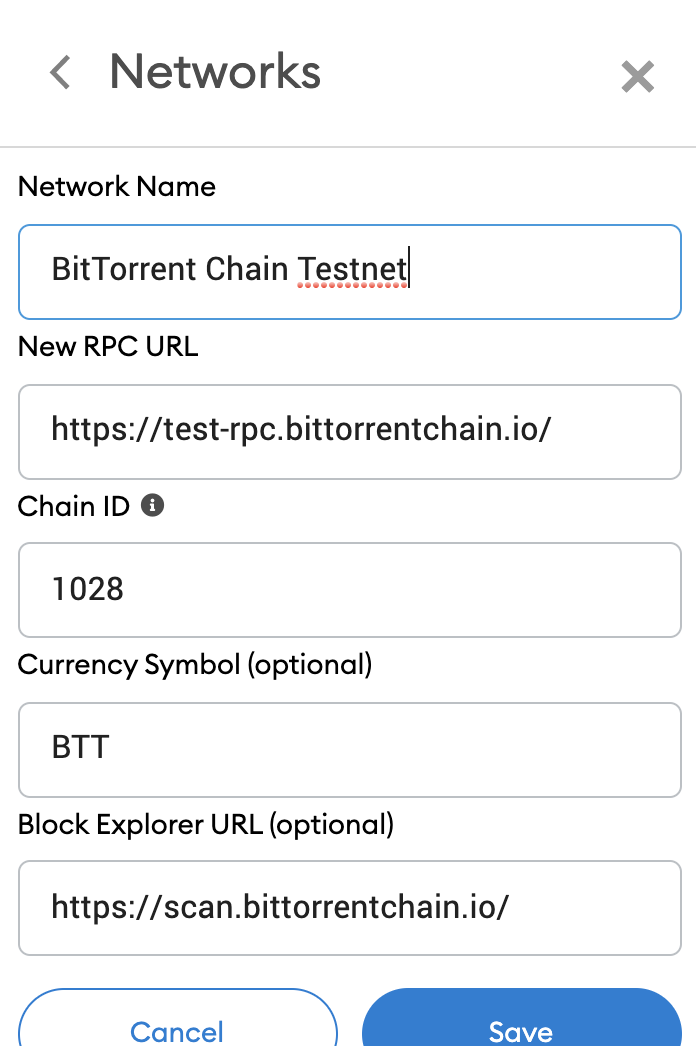
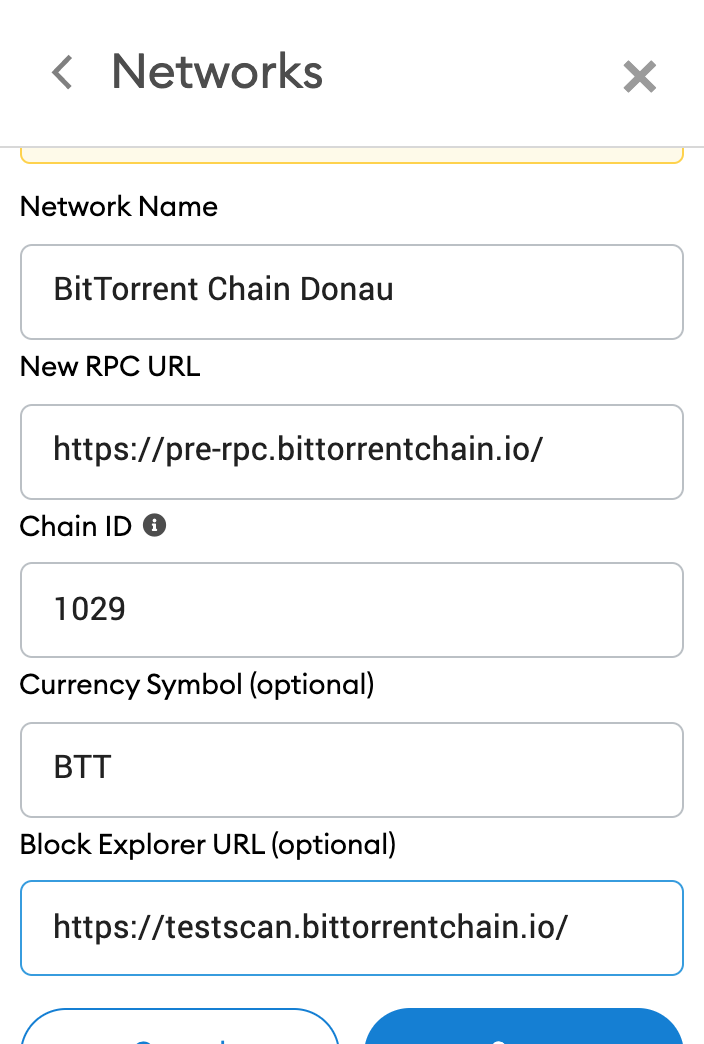
doc(testnet): update testnet configuration

diff --git a/docs/testnet.md b/docs/testnet.md
@@ -7,7 +7,7 @@ The BitTorrent Chain (BTTC) test network is open now. Currently, it supports TRO
 | TRON  | Nile  |  [Nile Faucet](https://nileex.io/join/getJoinPage) |
 |  ETH |  Goerli | [Goerli Faucet](https://faucet.goerli.mudit.blog/)  |
 |  BSC |  BSC Testnet | [BSC Faucet](https://testnet.binance.org/faucet-smart)  |
-|  BTTC | BTTC Testnet | [BTTC Faucet](https://faucet.bittorrentchain.io/)  |
+|  BTTC | BitTorrent Chain Donau | [BTTC Faucet](https://testfaucet.bittorrentchain.io/#)  |
 
 ## TRON Nile Testnet
 
@@ -56,10 +56,10 @@ For details, please refer to:：[Conncting Metamask to Binance Smart Chain](http
 
 Accessing to the BTTC test network requires Metamask. Please use Metamask to add the network configuration of the BTTC test network, and switch to the BTTC test network.
 
-* Network Name: BitTorrent Chain Testnet
-* RPC URL: https://test-rpc.bittorrentchain.io/ 
-* ChainID: 1028
+* Network Name: BitTorrent Chain Donau
+* RPC URL: https://pre-rpc.bittorrentchain.io/
+* ChainID: 1029
 * Symbol: BTT
-* Block Explorer URL: https://scan.bittorrentchain.io/
+* Block Explorer URL: https://testscan.bittorrentchain.io/
 
 ![image](./pics/wallet-rpc.png)

diff --git a/docs/simplified/node.md b/docs/simplified/node.md
@@ -1,0 +1,72 @@
+# 节点部署
+
+## 相关依赖及工具
+
+- Git v2.30.1
+- g++
+- Go 1.16 +
+- Nodejs v11.0
+- Rabbitmq(latest stable version)
+
+## 编译安装Delivery和BTTC二进制包
+
+### clone delivery代码
+
+```sh
+git clone https://github.com/bttcprotocol/delivery.git
+```
+
+### 安装delivery
+
+```sh
+cd delivery
+make install
+```
+
+### clone BTTC代码
+
+```sh
+git clone https://github.com/bttcprotocol/bttc
+```
+
+### 安装BTTC
+
+```sh
+cd bttc
+make bttc
+```
+
+## 安装bttc-cli脚本
+
+::: tip NOTE
+当bttc-cli有更新时，请先卸载本地旧版本，再重新安装最新版本。
+:::
+
+```sh
+npm uninstall -g bttc-cli
+npm install -g @tronnetwork/bttc-cli
+```
+
+### 检查bttc-cli版本
+
+```sh
+bttc-cli -V
+```
+
+## 部署节点
+
+使用如下命令初始化节点目录：
+
+```sh
+bttc-cli setup devnet
+```
+
+然后依次填写以下问题，请注意主网和测试网的区别
+
+### BTTC主网（199）
+
+### BTTC测试网（）
+
+运行上述脚本后，会生成如下的node目录
+
+![image]()
